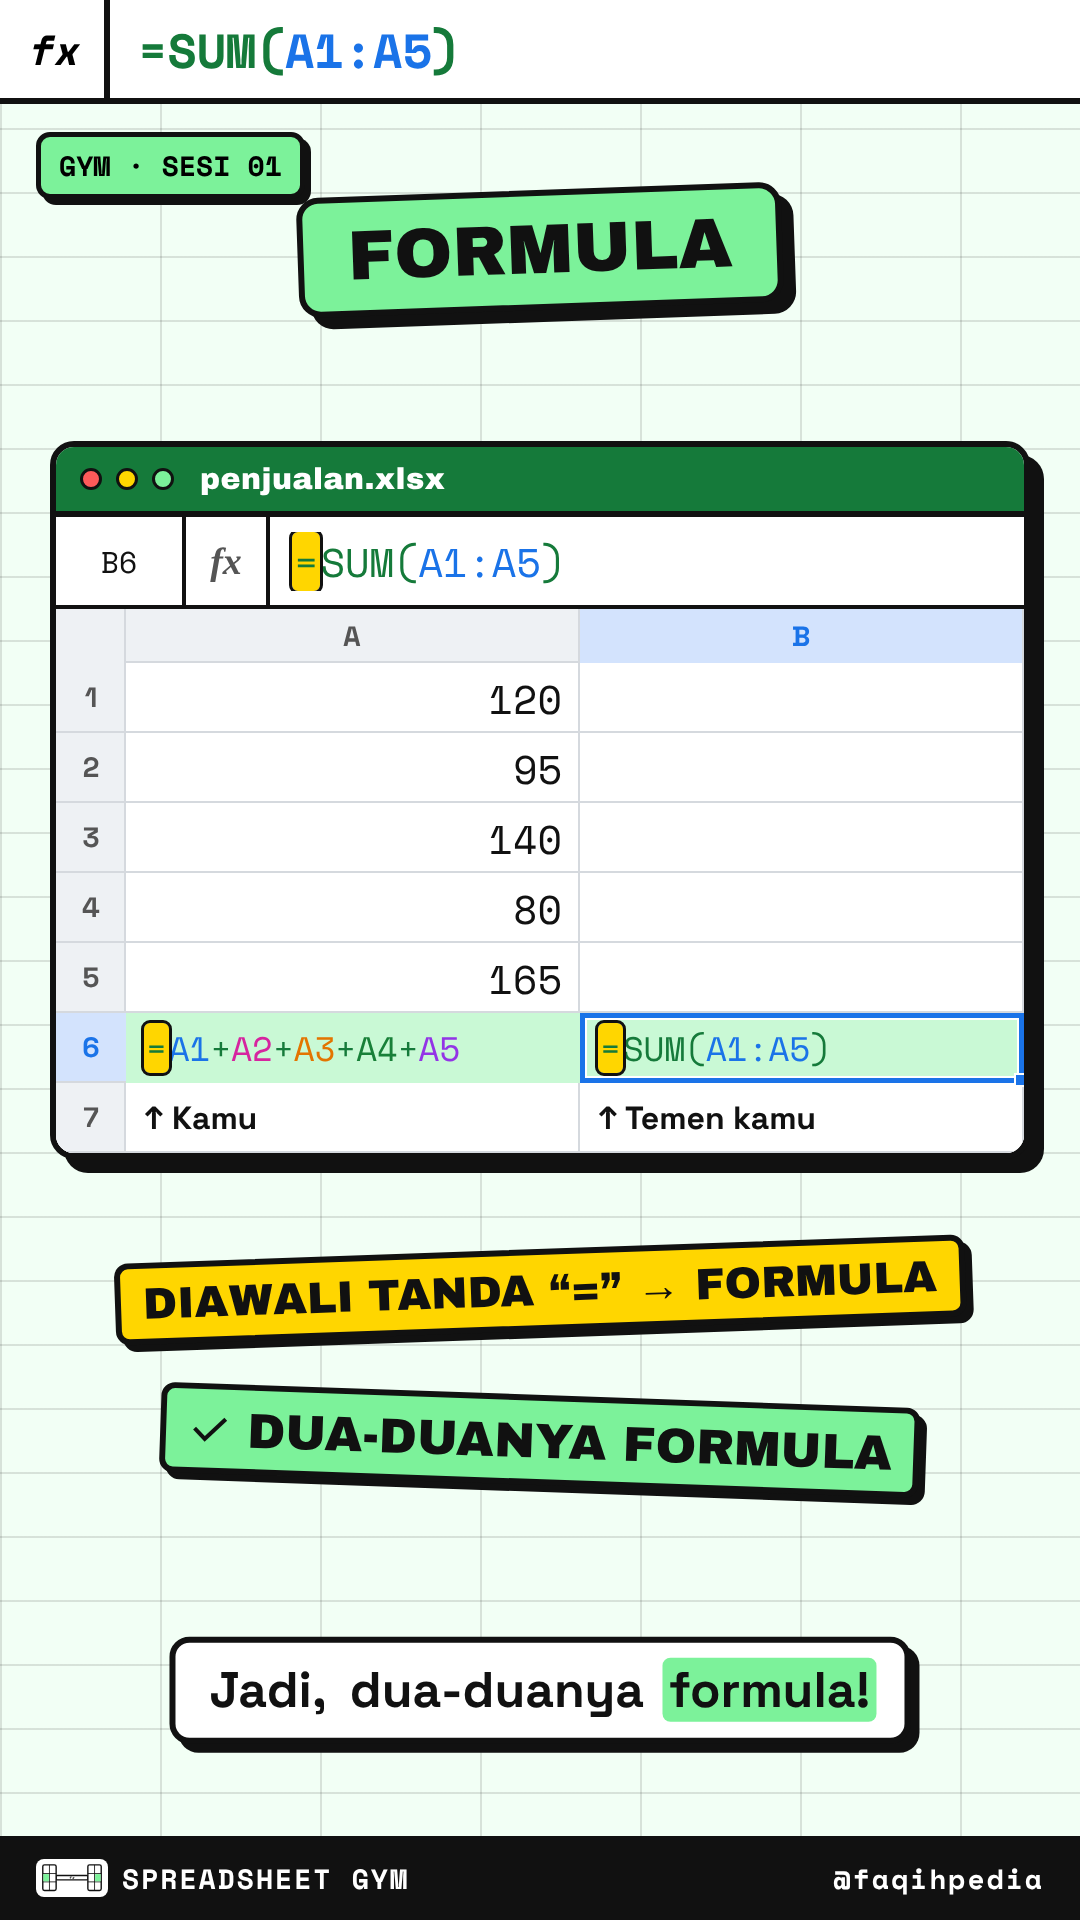
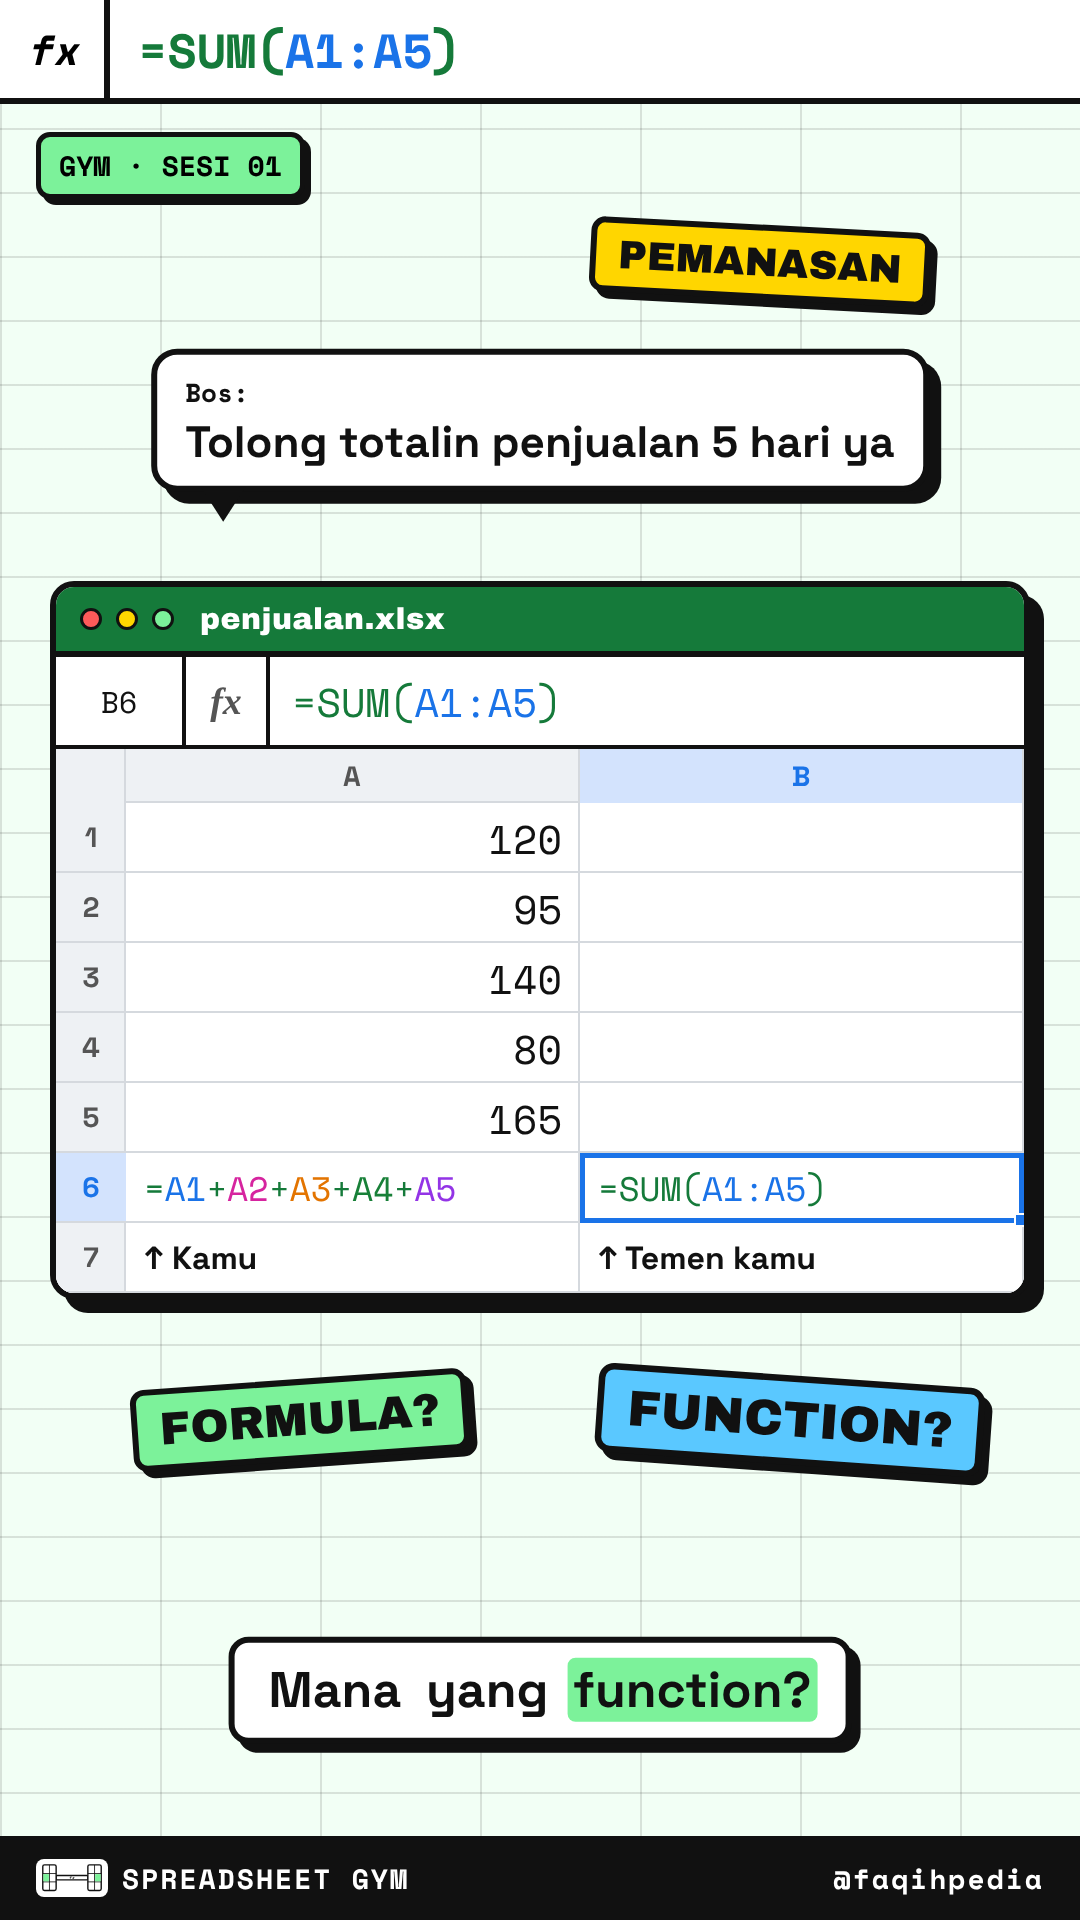
Spreadsheet Gym thumbnail: show the warm-up question, not the answer
Claude-Session: https://claude.ai/code/session_018xRo3ZmD22FHxxpmWKTbyx

Changed region(s): [[0.0306, 0.0938, 0.9778, 0.4375], [0.0306, 0.4688, 0.9778, 0.7812], [0.1528, 0.8438, 0.8556, 0.9375]]

diff --git a/spreadsheet-gym-formula-vs-function/src/Thumbnail.tsx b/spreadsheet-gym-formula-vs-function/src/Thumbnail.tsx
@@ -10,7 +10,8 @@ import { BORDER, BODY, C, EPISODE_LABEL, HEAD } from './theme';
  *  - segment motif on top (a spreadsheet: column letters, row numbers, cell grid),
  *    segment label + logo top-left tilted -2°, a short title (5 words)
  *  - a real frame of the video across the bottom half; no face in this segment,
- *    so it's the practice sheet at "Jadi, dua-duanya formula!" (31.6 s)
+ *    so it's the warm-up question at 18.1 s (boss request, both formulas,
+ *    "Formula?" / "Function?"). It must not show the answer.
  *  - a tilted card on the panel edge (episode number, plate blue)
  *  - black series strip at the bottom
  */
@@ -22,7 +23,8 @@ const mark: React.CSSProperties = {
 };
 
 const PHOTO_TOP = 690;
-const FRAME_Y = 430; // first row of the video frame shown at the panel top
+const FRAME_Y = 330; // first row of the video frame shown at the panel top
+const K = 0.9; // frame scale, so the bubble, sheet and both question stickers fit
 const STRIP = 150;
 
 /** spreadsheet motif: header row with column letters, row numbers, cell grid */
@@ -63,7 +65,7 @@ export const Thumbnail: React.FC = () => (
 
     {/* real video frame, bleeding off the bottom */}
     <div style={{ position: 'absolute', left: 0, right: 0, top: PHOTO_TOP, bottom: 0, overflow: 'hidden', borderTop: `${BORDER + 4}px solid ${C.ink}`, background: C.bg }}>
-      <Img src={staticFile('thumb-frame.png')} style={{ position: 'absolute', left: 0, top: -FRAME_Y, width: 1080, height: 1920 }} />
+      <Img src={staticFile('thumb-frame.png')} style={{ position: 'absolute', left: (1080 - 1080 * K) / 2, top: -FRAME_Y * K, width: 1080 * K, height: 1920 * K }} />
     </div>
 
     {/* segment label, top-left */}

diff --git a/README.md b/README.md
@@ -113,6 +113,6 @@ python3 scripts/whistle.py public/sfx/whistle.wav                   # optional: 
 npm run render -- --browser-executable=<chrome-headless-shell>
 ```
 
-The cover is `thumbnail.png`, rendered from the `Thumbnail` still (`src/Thumbnail.tsx`) with `npx remotion still Thumbnail thumbnail.png`. It follows the TRIMS cover rules (`trims-eps2-claude/src/Thumbnail.tsx`): segment motif and label on top, a 5-word title, a tilted card on the panel edge, a real video frame across the bottom half, and the black series strip. This segment has no face, so the frame is the practice sheet at 31.6 s (`public/thumb-frame.png`).
+The cover is `thumbnail.png`, rendered from the `Thumbnail` still (`src/Thumbnail.tsx`) with `npx remotion still Thumbnail thumbnail.png`. It follows the TRIMS cover rules (`trims-eps2-claude/src/Thumbnail.tsx`): segment motif and label on top, a 5-word title, a tilted card on the panel edge, a real video frame across the bottom half, and the black series strip. This segment has no face, so the frame is the warm-up question at 18.1 s (`public/thumb-frame.png`). The cover must not give away the answer.
 
 Scene timing is cued to words in the VO (`cue(part, word)` in `src/theme.ts`), so the edit follows a regenerated VO without manual retiming. The episode number, weight and main formula are `EPISODE` and `MAIN_FORMULA` in `src/theme.ts`.
